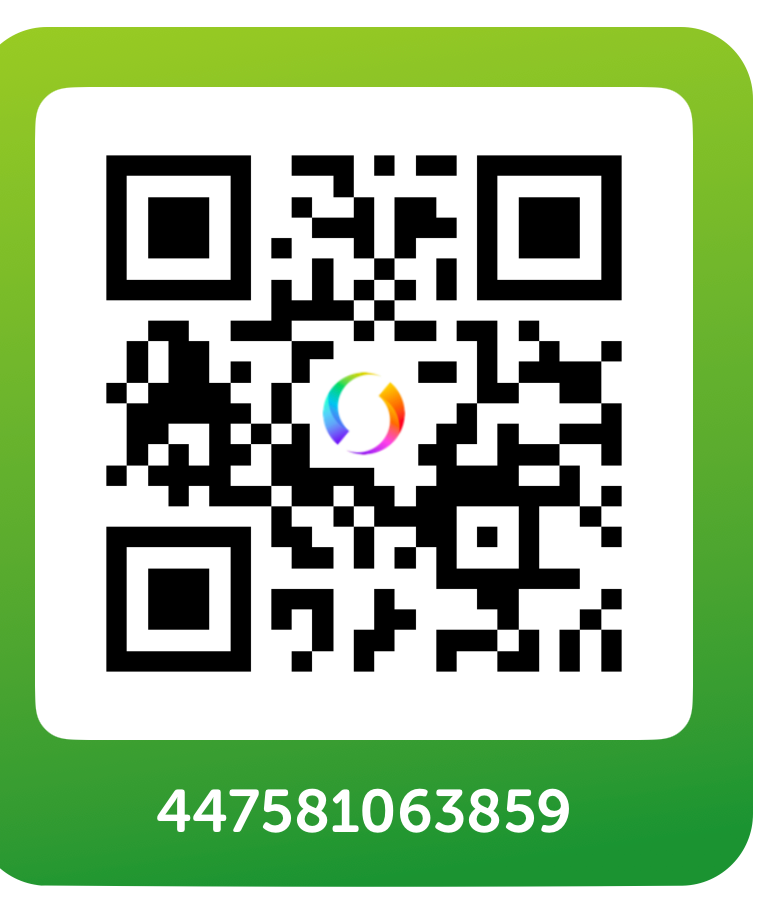
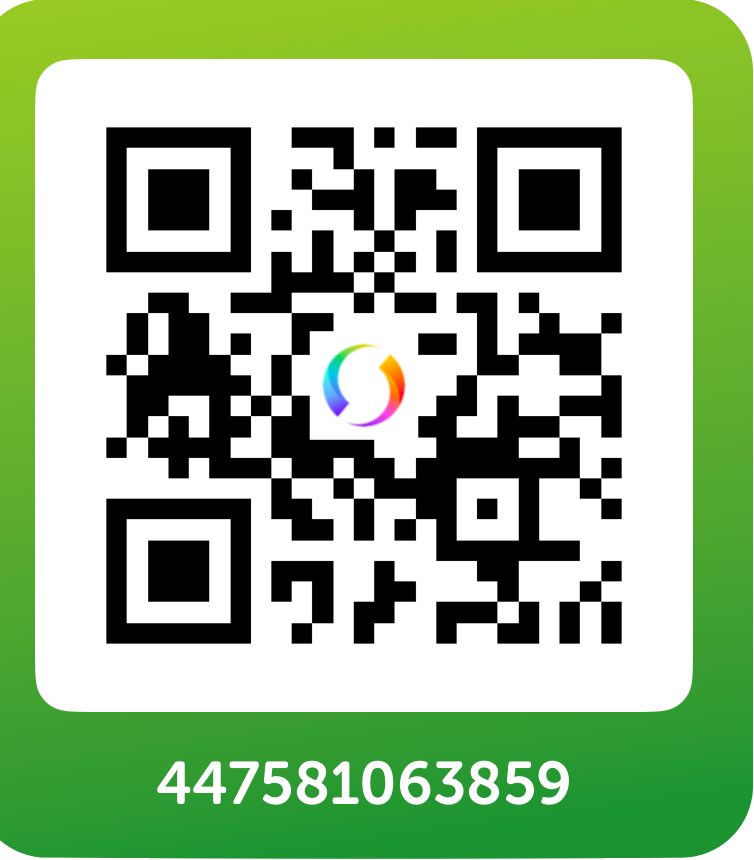
feature: make swish optional for surprises and clean up the qr image

diff --git a/index.html b/index.html
@@ -94,7 +94,8 @@
     .rsvp input[type=text] { font: inherit; font-size: 1.1rem; padding: .9rem 1rem; border: 1px solid var(--line);
       background: #ffffffb3; color: var(--ink); border-radius: 0; width: 100%; }
     .rsvp input:focus { outline: 2px solid var(--gold); outline-offset: 2px; }
-    .rsvp img { width: min(240px, 66vw); height: auto; display: block; margin: .25rem auto 0; border-radius: 11%; }
+    .rsvp img { width: min(240px, 66vw); height: auto; display: block; margin: .25rem auto 0; border-radius: 9% 0 0 9% / 7.8% 0 0 7.8%; filter: drop-shadow(0 8px 14px #34405e40); }
+    .step-note { margin: 0; color: var(--ink); font-size: .95rem; }
     .copy { justify-self: center; background: none; border: 1px solid var(--red); color: var(--red); font: inherit;
       font-weight: 700; font-size: .8rem; letter-spacing: .12em; padding: .6rem 1rem; cursor: pointer; }
     .check { display: flex; gap: .75rem; align-items: center; font-weight: 700; color: var(--ink); cursor: pointer; }
@@ -437,10 +438,11 @@
         <input type="text" id="rsvp-name" autocomplete="name" required maxlength="80">
       </div>
       <div class="step">
-        <span class="step-label"><b>2</b>SWISH 150 KR</span>
-        <img src="swish.png" alt="QR-kod för Swish">
+        <span class="step-label"><b>2</b>KUL ÖVERRASKNINGAR</span>
+        <p class="step-note">Swisha 150 kr om du vill ha kul överraskningar.</p>
+        <img src="swish.png?v=2" alt="QR-kod för Swish">
         <button class="copy" type="button" id="swish-copy">KOPIERA NUMRET</button>
-        <label class="check"><input type="checkbox" required>Jag har swishat 150 kr</label>
+        <label class="check"><input type="checkbox" id="rsvp-paid">Jag har swishat 150 kr</label>
       </div>
       <button class="send" type="submit">JAG ÄR MED</button>
     </form>
@@ -473,7 +475,7 @@
       const post = document.createElement('form');
       post.method = 'POST'; post.action = FORM_URL; post.target = 'rsvp-target'; post.hidden = true;
       const field = document.createElement('input');
-      field.name = NAME_ENTRY; field.value = name;
+      field.name = NAME_ENTRY; field.value = document.getElementById('rsvp-paid').checked ? `${name} (swishat)` : name;
       post.appendChild(field);
       document.body.append(frame, post);
       post.submit();
